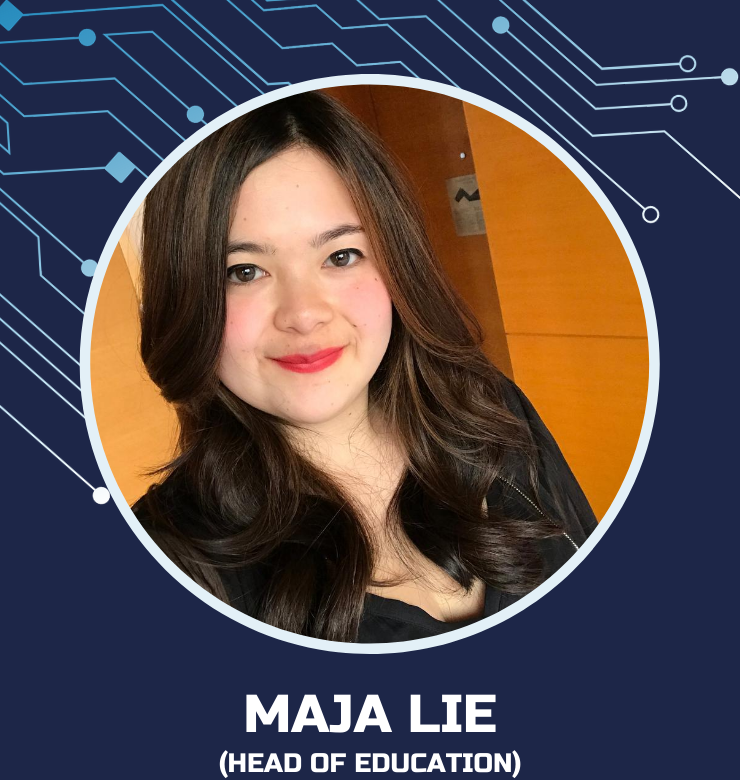
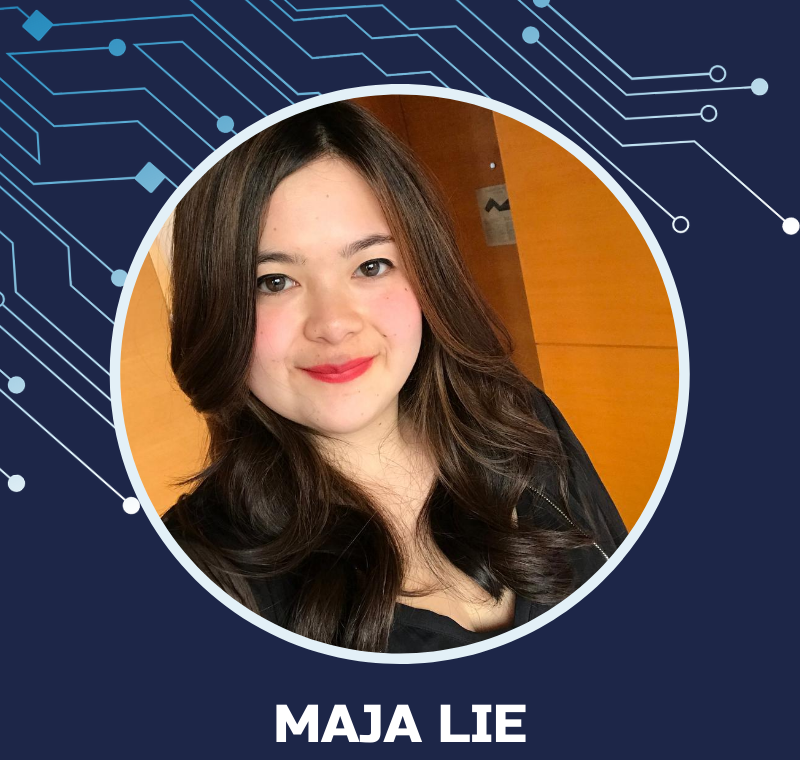
Add resized images to about.md and index.html

diff --git a/templates/index.html b/templates/index.html
@@ -100,7 +100,7 @@
 	</div>
 	<div class="col mb-4">
 		<div class="card h-100">
-			<img src = "logo_circles.png" class="card-img-top">
+			<img src = "example_marketing.png" class="card-img-top">
 			<div class="card-body">
 				<h5 class="card-title">Marketing </h5>
 		    	<p class="card-text"> The marketing subcommittee is responsible for bringing awareness of our events through social media and other channels. </p>
